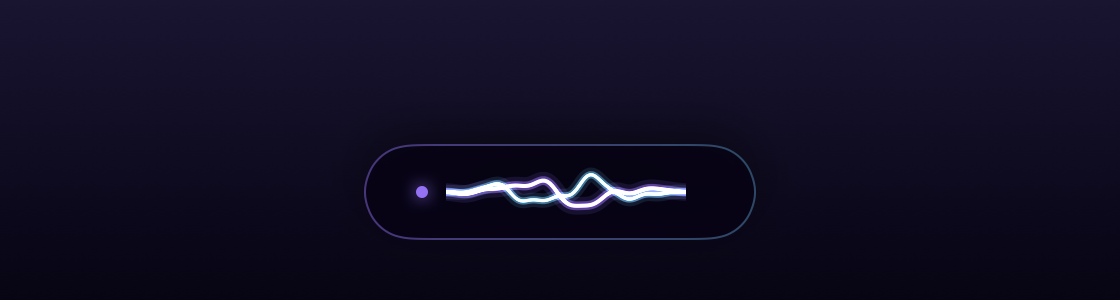
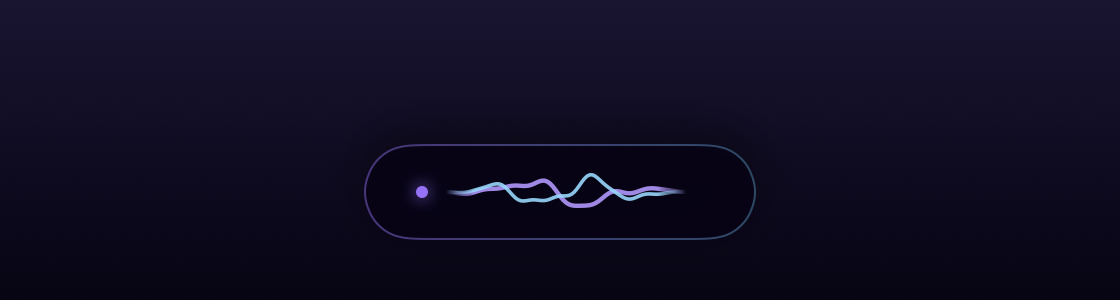
Crisp waveform: no glow, ends fade out instead of clipping
Each ribbon is now a single clean stroke — the halo/glow layers and the
additive blending that produced a glare where ribbons crossed are gone.
A gradient fades the stroke to transparent at both ends, so the line
dissolves at the pill's edge instead of stopping dead.

Changed region(s): [[0.375, 0.57, 0.625, 0.72]]

diff --git a/Sources/WaveformCore/HUD/WaveformView.swift b/Sources/WaveformCore/HUD/WaveformView.swift
@@ -1,9 +1,10 @@
 import SwiftUI
 
-/// Music-visualizer waveform: two ribbons in the app's accent family
+/// Music-visualizer waveform: two crisp ribbons in the app's accent family
 /// (violet and cyan) weaving across a dark void, amplitude driven by the
-/// live microphone level. Two hues that sit next to each other read as one
-/// glowing voice; a third contrasting hue read as noise.
+/// live microphone level. No glow layers and no additive blending — each
+/// ribbon is a single clean stroke whose ends fade out, so the line never
+/// hard-clips at the pill's edge.
 ///
 /// Rendering notes for efficiency: one Canvas, three strokes per ribbon
 /// (halo, glow, core), no offscreen effects, and the TimelineView pauses
@@ -51,8 +52,6 @@ struct WaveformView: View {
         let midY = size.height / 2
         let maxAmplitude = size.height * 0.42
 
-        graphics.blendMode = .plusLighter
-
         for ribbon in Self.ribbons {
             let path = ribbonPath(
                 ribbon: ribbon,
@@ -63,21 +62,23 @@ struct WaveformView: View {
                 time: time
             )
 
-            // Halo → glow → hot core, additively blended.
+            // One clean stroke per ribbon. The gradient fades the ends to
+            // transparent so the line dissolves instead of stopping dead at
+            // the canvas edge.
+            let faded = ribbon.color.mix(with: .white, by: 0.25)
             graphics.stroke(
                 path,
-                with: .color(ribbon.color.opacity(0.12)),
-                style: StrokeStyle(lineWidth: ribbon.thickness * 4, lineCap: .round, lineJoin: .round)
-            )
-            graphics.stroke(
-                path,
-                with: .color(ribbon.color.opacity(0.45)),
-                style: StrokeStyle(lineWidth: ribbon.thickness * 2, lineCap: .round, lineJoin: .round)
-            )
-            graphics.stroke(
-                path,
-                with: .color(ribbon.color.mix(with: .white, by: 0.65).opacity(0.95)),
-                style: StrokeStyle(lineWidth: ribbon.thickness * 0.9, lineCap: .round, lineJoin: .round)
+                with: .linearGradient(
+                    Gradient(stops: [
+                        .init(color: faded.opacity(0), location: 0),
+                        .init(color: faded.opacity(0.9), location: 0.12),
+                        .init(color: faded.opacity(0.9), location: 0.88),
+                        .init(color: faded.opacity(0), location: 1),
+                    ]),
+                    startPoint: CGPoint(x: 0, y: midY),
+                    endPoint: CGPoint(x: size.width, y: midY)
+                ),
+                style: StrokeStyle(lineWidth: ribbon.thickness, lineCap: .round, lineJoin: .round)
             )
         }
     }
